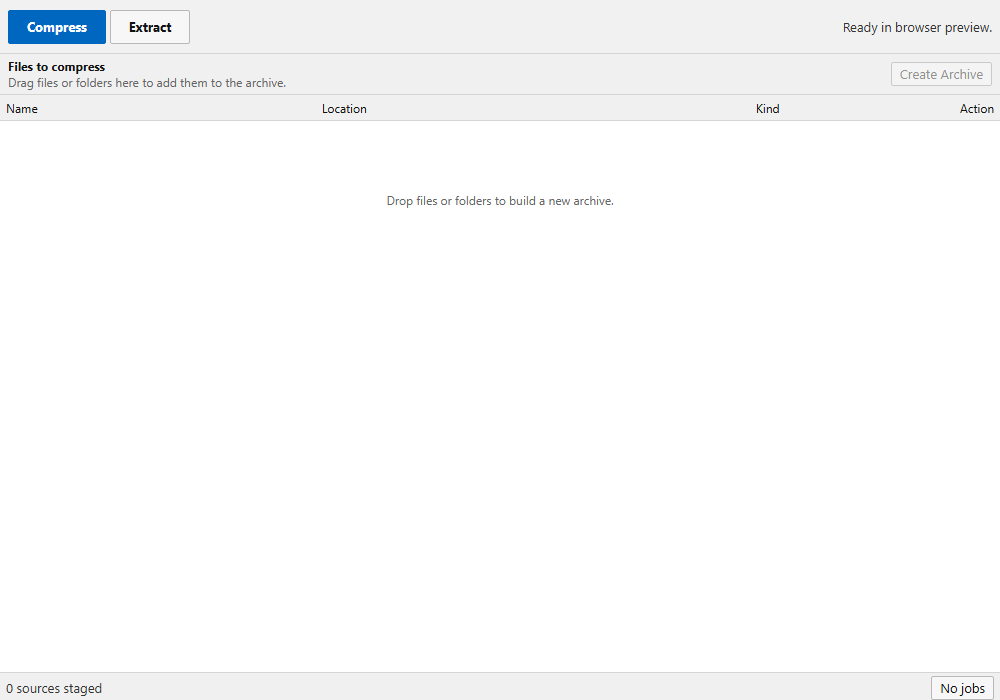
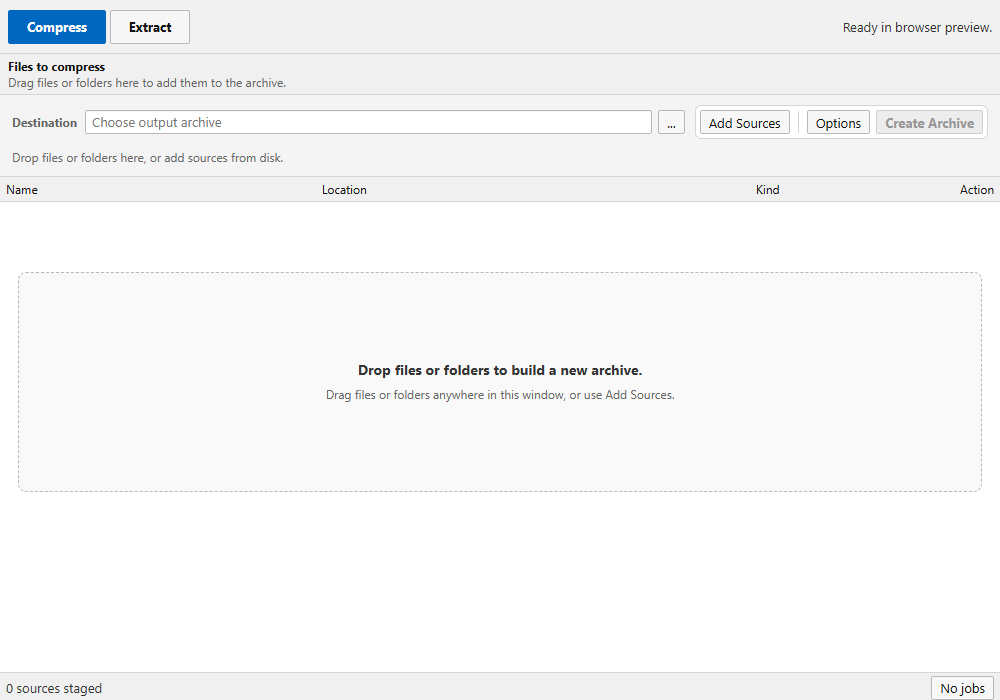
Harden list selection and update GUI audit screenshots

diff --git a/e2e/gui-visual-scan.spec.ts b/e2e/gui-visual-scan.spec.ts
@@ -175,14 +175,9 @@ test("primary GUI states have visible, non-overlapping controls", async ({ page 
   await expect(page.locator("#compress-source-body tr")).toHaveCount(3);
   await captureAndScan(page, "04-compress-with-sources");
 
-  await page.getByRole("button", { name: "Create Archive" }).click();
-  await expect(page.getByRole("dialog", { name: "Add to Archive" })).toBeVisible();
+  await page.locator("#create-options-open").click();
+  await expect(page.getByRole("dialog", { name: "Archive Options" })).toBeVisible();
   await captureAndScan(page, "05-create-dialog");
-
-  await page.locator("#source-list li").first().click({ button: "right" });
-  await expect(page.locator("#context-menu")).toBeVisible();
-  await captureAndScan(page, "26-create-source-context-menu");
-  await page.locator("#create-title").click();
 
   await page.locator("#create-dialog details.advanced-options summary").click();
   await page.locator("#create-format").selectOption("sevenZ");
@@ -191,7 +186,7 @@ test("primary GUI states have visible, non-overlapping controls", async ({ page 
   await page.locator("#create-password-confirm").fill("correct horse battery staple");
   await page.locator("#create-show-password").check();
   await captureAndScan(page, "27-create-dialog-advanced-options");
-  await page.getByRole("button", { name: "Cancel" }).click();
+  await page.locator("#create-cancel").click();
 
   await page.getByRole("tab", { name: "Extract" }).click();
   await captureAndScan(page, "06-extract-empty");
@@ -218,7 +213,7 @@ test("primary GUI states have visible, non-overlapping controls", async ({ page 
   await page.getByRole("button", { name: "Extract" }).click();
   await expect(page.getByRole("dialog", { name: "Extract" })).toBeVisible();
   await captureAndScan(page, "08-extract-dialog");
-  await page.getByRole("button", { name: "Cancel" }).click();
+  await page.locator("#extract-cancel").click();
 
   await page.locator('tr[data-entry-path="documents"]').click({ button: "right" });
   await expect(page.locator("#context-menu")).toBeVisible();
@@ -319,9 +314,9 @@ test("minimum-size visual surfaces stay within the app bounds", async ({ page })
   ]);
   await captureAndScan(page, "33-min-compress-long-sources");
 
-  await page.getByRole("button", { name: "Create Archive" }).click();
+  await page.locator("#create-options-open").click();
   await captureAndScan(page, "34-min-create-dialog");
-  await page.getByRole("button", { name: "Cancel" }).click();
+  await page.locator("#create-cancel").click();
 
   await page.getByRole("tab", { name: "Extract" }).click();
   await loadArchiveWithIcons(page);
@@ -416,6 +411,26 @@ async function scanVisibleLayout(page: Page): Promise<string[]> {
       return width * height;
     };
 
+    const isClippedByScrollableAncestor = (element: HTMLElement): boolean => {
+      const rect = element.getBoundingClientRect();
+      let parent = element.parentElement;
+      while (parent && parent !== document.body) {
+        const style = window.getComputedStyle(parent);
+        const canScroll = /(auto|scroll)/.test(`${style.overflow}${style.overflowY}${style.overflowX}`);
+        if (canScroll && (parent.scrollHeight > parent.clientHeight + 1 || parent.scrollWidth > parent.clientWidth + 1)) {
+          const parentRect = parent.getBoundingClientRect();
+          return (
+            rect.left < parentRect.left - 1 ||
+            rect.right > parentRect.right + 1 ||
+            rect.top < parentRect.top - 1 ||
+            rect.bottom > parentRect.bottom + 1
+          );
+        }
+        parent = parent.parentElement;
+      }
+      return false;
+    };
+
     const selector = [
       "button",
       "input",
@@ -431,6 +446,9 @@ async function scanVisibleLayout(page: Page): Promise<string[]> {
 
     const elements = Array.from(document.querySelectorAll<HTMLElement>(selector))
       .filter((element) => {
+        if (isClippedByScrollableAncestor(element)) {
+          return false;
+        }
         const style = window.getComputedStyle(element);
         const rect = element.getBoundingClientRect();
         const centerX = rect.left + rect.width / 2;

diff --git a/src/main.ts b/src/main.ts
@@ -547,6 +547,7 @@ appRoot.innerHTML = `
           </div>
         </div>
         <div class="table-shell" tabindex="0">
+          <div id="marquee-hit-surface" class="marquee-hit-surface" aria-hidden="true"></div>
           <div id="archive-empty-state" class="archive-empty-state" hidden>
             <div class="archive-empty-state-inner">
               <span class="archive-empty-state-icon" aria-hidden="true">${toolbarIcon("open")}</span>
@@ -1011,6 +1012,8 @@ const tableHead = document.querySelector<HTMLTableSectionElement>("#entry-table-
 const tableBody = document.querySelector<HTMLTableSectionElement>("#entry-table-body")!;
 const entryTable = document.querySelector<HTMLTableElement>("#entry-table")!;
 const tableShellElement = document.querySelector<HTMLDivElement>(".table-shell")!;
+const marqueeHitSurfaceElement = document.querySelector<HTMLDivElement>("#marquee-hit-surface")!;
+const archiveTablePaneElement = document.querySelector<HTMLElement>(".archive-table-pane")!;
 const archiveEmptyStateElement = document.querySelector<HTMLDivElement>("#archive-empty-state")!;
 const metaElement = document.querySelector<HTMLParagraphElement>("#browse-meta")!;
 let selectAllInput = document.querySelector<HTMLInputElement>("#select-all")!;
@@ -5413,11 +5416,18 @@ function canStartMarqueeSelection(event: PointerEvent): boolean {
     return false;
   }
 
-  const target = event.target as HTMLElement;
-  if (!target.closest(".table-shell")) {
+  const tableShellRect = tableShellElement.getBoundingClientRect();
+  const isInsideListView =
+    event.clientX >= tableShellRect.left &&
+    event.clientX <= tableShellRect.right &&
+    event.clientY >= tableShellRect.top &&
+    event.clientY <= tableShellRect.bottom;
+
+  if (!isInsideListView) {
     return false;
   }
 
+  const target = event.target as HTMLElement;
   if (target.closest("button, a, input, select, textarea, .column-resizer")) {
     return false;
   }
@@ -5555,11 +5565,19 @@ tableBody.addEventListener("pointerdown", (event) => {
   document.addEventListener("pointercancel", onNativeDragPointerEnd);
 });
 
-tableShellElement.addEventListener("pointerdown", (event) => {
+function armMarqueeSelectionFromPointer(event: PointerEvent) {
+  if (pendingMarqueeSelection?.pointerId === event.pointerId) {
+    return;
+  }
+
   if (!canStartMarqueeSelection(event)) {
     return;
   }
 
+  event.preventDefault();
+  if (event.currentTarget instanceof HTMLElement && event.currentTarget.hasPointerCapture?.(event.pointerId) === false) {
+    event.currentTarget.setPointerCapture(event.pointerId);
+  }
   pendingMarqueeSelection = {
     pointerId: event.pointerId,
     startX: event.clientX,
@@ -5572,12 +5590,24 @@ tableShellElement.addEventListener("pointerdown", (event) => {
   document.addEventListener("pointermove", onMarqueeSelectionPointerMove);
   document.addEventListener("pointerup", onMarqueeSelectionPointerEnd);
   document.addEventListener("pointercancel", onMarqueeSelectionPointerEnd);
-});
+}
+
+marqueeHitSurfaceElement.addEventListener("pointerdown", armMarqueeSelectionFromPointer);
+tableShellElement.addEventListener("pointerdown", armMarqueeSelectionFromPointer, { capture: true });
+archiveTablePaneElement.addEventListener("pointerdown", armMarqueeSelectionFromPointer);
 
 tableBody.addEventListener("dragstart", (event) => {
   if ((event.target as HTMLElement | null)?.closest("tr[data-entry-path]")) {
     event.preventDefault();
   }
+});
+
+tableShellElement.addEventListener("selectstart", (event) => {
+  event.preventDefault();
+});
+
+tableShellElement.addEventListener("dragstart", (event) => {
+  event.preventDefault();
 });
 
 tableBody.addEventListener("click", (event) => {

diff --git a/e2e/native-drag.spec.ts b/e2e/native-drag.spec.ts
@@ -223,6 +223,51 @@ test("dragging blank table space marquee-selects intersecting rows", async ({ pa
   await expect(page.locator(".marquee-selection")).toBeHidden();
 });
 
+test("dragging empty list-view space starts marquee selection", async ({ page }) => {
+  const folderRow = entryRow(page, "folder");
+  const rootRow = entryRow(page, "root.txt");
+  const tableShellBox = await page.locator(".table-shell").boundingBox();
+  const folderBox = await folderRow.boundingBox();
+  const rootBox = await rootRow.boundingBox();
+  if (!tableShellBox || !folderBox || !rootBox) {
+    throw new Error("Unable to locate list-view geometry");
+  }
+
+  const startX = tableShellBox.x + tableShellBox.width / 2;
+  const startY = Math.min(rootBox.y + rootBox.height + 60, tableShellBox.y + tableShellBox.height - 16);
+  await page.mouse.move(startX, startY);
+  await page.mouse.down();
+  await page.mouse.move(folderBox.x + 2, folderBox.y + 2, { steps: 8 });
+
+  await expect(page.locator(".marquee-selection")).toBeVisible();
+  await expect(folderRow).toHaveAttribute("aria-selected", "true");
+  await expect(rootRow).toHaveAttribute("aria-selected", "true");
+  expect(await nativeDragCalls(page)).toEqual([]);
+
+  await page.mouse.up();
+  await expect(page.locator(".marquee-selection")).toBeHidden();
+});
+
+test("archive list suppresses WebView text selection gestures", async ({ page }) => {
+  const rootRow = entryRow(page, "root.txt");
+  const sizeCell = rootRow.locator("td").nth(2);
+  const box = await sizeCell.boundingBox();
+  if (!box) {
+    throw new Error("Unable to locate root size cell");
+  }
+
+  await expect(await dispatchSelectStartFromCell(sizeCell)).toBe(true);
+
+  await page.mouse.move(box.x + box.width / 2, box.y + box.height / 2);
+  await page.mouse.down();
+  await page.mouse.move(box.x - 120, box.y - 32, { steps: 6 });
+
+  await expect(page.locator(".marquee-selection")).toBeVisible();
+  expect(await page.evaluate(() => window.getSelection()?.toString() ?? "")).toBe("");
+
+  await page.mouse.up();
+});
+
 test("checkbox selection does not start native drag-out", async ({ page }) => {
   const rootRow = entryRow(page, "root.txt");
   const checkbox = rootRow.locator("input[type='checkbox']");
@@ -555,6 +600,17 @@ async function dispatchDragStartFromIcon(row: ReturnType<typeof entryRow>): Prom
       cancelable: true,
     });
     icon.dispatchEvent(event);
+    return event.defaultPrevented;
+  });
+}
+
+async function dispatchSelectStartFromCell(cell: ReturnType<typeof entryRow>): Promise<boolean> {
+  return cell.evaluate((element) => {
+    const event = new Event("selectstart", {
+      bubbles: true,
+      cancelable: true,
+    });
+    element.dispatchEvent(event);
     return event.defaultPrevented;
   });
 }

diff --git a/src/styles.css b/src/styles.css
@@ -857,12 +857,50 @@ input[type="search"] {
 
 .table-shell,
 .archive-table-wrap {
+  position: relative;
   min-height: 0;
   overflow: auto;
   border: 0;
   border-top: 1px solid var(--border);
   border-radius: 0;
   background: var(--content-bg);
+  -webkit-user-select: none;
+  user-select: none;
+  touch-action: none;
+}
+
+.marquee-hit-surface {
+  position: absolute;
+  inset: 0;
+  z-index: 1;
+  cursor: default;
+  -webkit-user-select: none;
+  user-select: none;
+  touch-action: none;
+}
+
+#archive-empty-state {
+  position: relative;
+  z-index: 2;
+}
+
+#entry-table {
+  position: relative;
+  -webkit-user-select: none;
+  user-select: none;
+  touch-action: none;
+}
+
+#entry-table th,
+#entry-table td {
+  position: relative;
+  z-index: 2;
+  -webkit-user-select: none;
+  user-select: none;
+}
+
+#entry-table th {
+  z-index: 3;
 }
 
 .compress-surface {
@@ -1720,6 +1758,7 @@ progress {
 
 .dialog-body {
   min-height: 0;
+  max-height: calc(100vh - 180px);
   display: grid;
   gap: 10px;
   padding: 12px;
